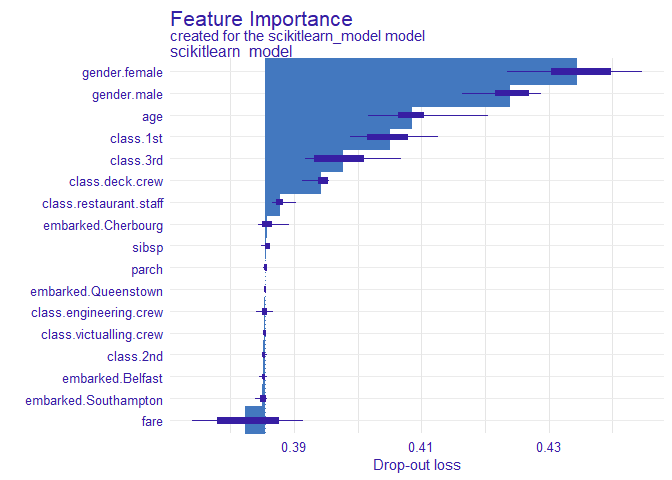
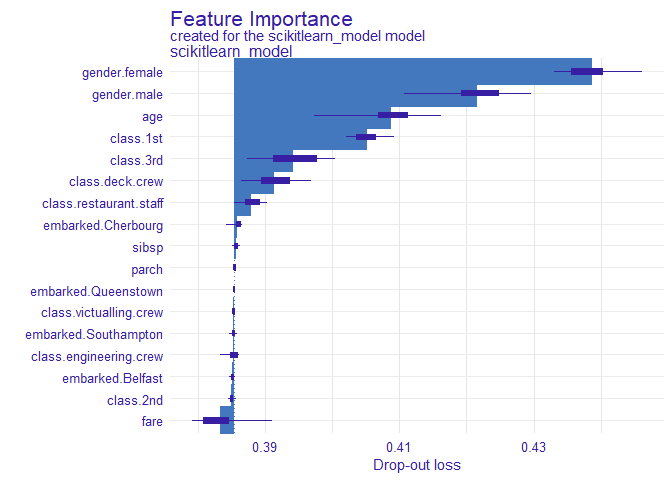
xgboost tests and examples

diff --git a/README.md b/README.md
@@ -29,7 +29,7 @@ could be divided into three areas.
         they can be explained using R tools like
         [DrWhy.AI](https://github.com/ModelOriented/DrWhy) family.
       - Currently supported are **Python** *scikit-learn* and *keras*,
-        **Java** *h2o* and *mljar*, **R** *mlr* and *mlr3*.
+        **Java** *h2o* and *mljar*, **R** *xgboost*, *mlr* and *mlr3*.
   - Aspect Importance analysis
       - Provides instance-level explanations for the groups of
         explanatory variables.
@@ -232,8 +232,8 @@ plot(feature_importance(explainer))
 describe(feature_importance(explainer))
 ```
 
-    ## The number of important variables for scikitlearn_model's prediction is 2 out of 17. 
-    ##  Variables gender.female, gender.male have the highest importantance.
+    ## The number of important variables for scikitlearn_model's prediction is 4 out of 17. 
+    ##  Variables gender.female, gender.male, age have the highest importantance.
 
 ``` r
 library(iBreakDown)
